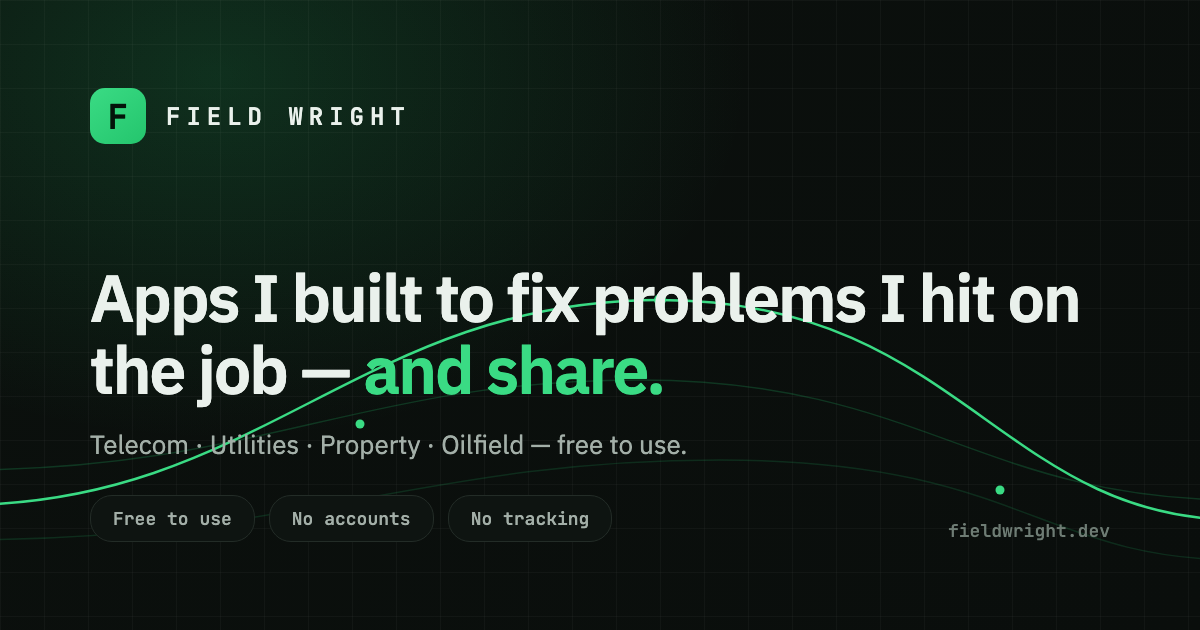
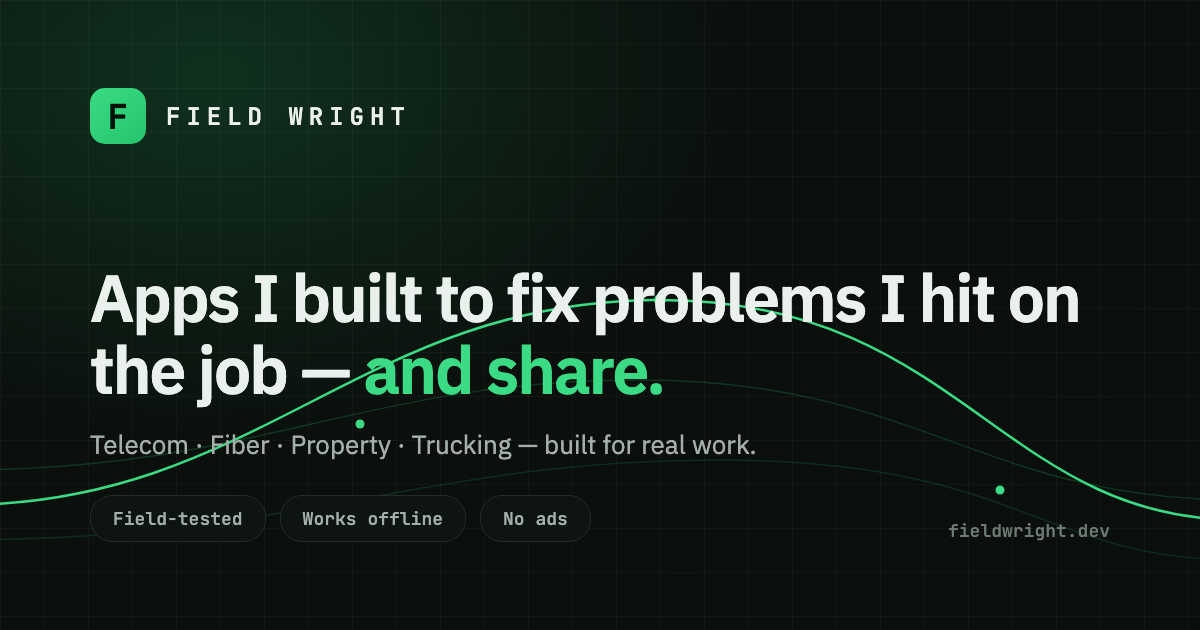
fix: correct app descriptions to match the actual repos
Reconciled the landing page against the real projects after reading each repo:

- Rig Check: it's a trucking DVIR app (FMCSA driver's vehicle inspection),
  not oilfield/drilling — recategorized Trucking and rewrote the description
- Rename to real product names: Fiber Color Code (was "Fiber Splicer Planner"),
  Linden (was "Property Management"); Material Inventory clarified as a
  self-hosted web/PWA with kiosk checkout, not a mobile app
- Add StakeTrak (RUS unit tracking & billing for fiber/utility contractors)
- Replace inaccurate blanket claims ("free / no accounts / no tracking") with
  ones true across the portfolio (field-tested, works offline, no ads, built solo)
- Fix industries wording (oilfield -> trucking) in hero, about, meta, OG image,
  JSON-LD; swap the "Oilfield" filter for "Trucking"; regenerate og-image.png

Changed region(s): [[0.1542, 0.6937, 0.6475, 0.7238], [0.2467, 0.8143, 0.4933, 0.8444], [0.0925, 0.8143, 0.2158, 0.8444]]

diff --git a/index.html b/index.html
@@ -4,14 +4,14 @@
   <meta charset="utf-8" />
   <meta name="viewport" content="width=device-width, initial-scale=1" />
   <title>Field Wright — Apps I built to solve real problems</title>
-  <meta name="description" content="Field Wright is where Hunter Easterling shares the apps he builds to solve problems he runs into — telecom, utilities, property, and oilfield. Free to use, no accounts, no tracking." />
+  <meta name="description" content="Field Wright is where Hunter Easterling shares the apps he builds to solve problems he runs into — telecom, fiber, property, and trucking. Field-tested, offline-first, no ads." />
   <link rel="canonical" href="https://fieldwright.dev/" />
   <meta name="theme-color" content="#0A0E0C" media="(prefers-color-scheme: dark)" />
   <meta name="theme-color" content="#FBFDFB" media="(prefers-color-scheme: light)" />
 
   <!-- Open Graph / Twitter -->
   <meta property="og:title" content="Field Wright — Apps I built to solve real problems" />
-  <meta property="og:description" content="I build small apps to fix problems I run into on the job, and share them in case they help you too. Free, no accounts, no tracking." />
+  <meta property="og:description" content="I build small apps to fix problems I run into on the job, and share them in case they help you too. Telecom, fiber, property, trucking — field-tested." />
   <meta property="og:type" content="website" />
   <meta property="og:url" content="https://fieldwright.dev/" />
   <meta property="og:image" content="https://fieldwright.dev/og-image.png" />
@@ -19,7 +19,7 @@
   <meta property="og:image:height" content="630" />
   <meta name="twitter:card" content="summary_large_image" />
   <meta name="twitter:title" content="Field Wright — Apps I built to solve real problems" />
-  <meta name="twitter:description" content="Small apps that fix real problems on the job — telecom, utilities, property, oilfield. Free to use." />
+  <meta name="twitter:description" content="Small apps that fix real problems on the job — telecom, fiber, property, trucking. Field-tested, offline-first." />
   <meta name="twitter:image" content="https://fieldwright.dev/og-image.png" />
 
   <link rel="preconnect" href="https://fonts.googleapis.com" />
@@ -36,7 +36,7 @@
     "email": "[email redacted]",
     "jobTitle": "Independent app developer",
     "brand": { "@type": "Brand", "name": "Field Wright" },
-    "knowsAbout": ["Telecom", "Fiber optics", "Utilities", "Property management", "Oilfield"]
+    "knowsAbout": ["Telecom", "Fiber optics", "Utilities", "Property management", "Trucking", "Construction"]
   }
   </script>
 
@@ -319,6 +319,7 @@
     .grid .card:nth-child(4) { transition-delay: .15s; }
     .grid .card:nth-child(5) { transition-delay: .20s; }
     .grid .card:nth-child(6) { transition-delay: .25s; }
+    .grid .card:nth-child(7) { transition-delay: .30s; }
 
     /* ---- Principles band ---- */
     .band { border-top: 1px solid var(--border); border-bottom: 1px solid var(--border); background: var(--surface); }
@@ -388,8 +389,8 @@
         <h1 class="reveal">Apps I built to fix problems I hit on the job — <span class="grad">and share.</span></h1>
         <p class="lede reveal">
           I'm Hunter Easterling. Field Wright is where I put the apps I've built to solve
-          real problems in my own work — across telecom, utilities, property, and oilfield.
-          They're free to use, and if one of them helps you too, that's the whole point.
+          real problems in my own work — across telecom, utilities, property, and trucking.
+          If one of them helps you too, that's the whole point.
         </p>
         <div class="cta-row reveal">
           <a class="btn btn-primary" href="#work">
@@ -399,10 +400,10 @@
           <a class="btn btn-ghost" href="#contact">Say hello</a>
         </div>
         <div class="chips reveal" aria-label="What to expect">
-          <span class="chip"><svg viewBox="0 0 24 24" fill="none" stroke="currentColor" stroke-width="2" stroke-linecap="round" stroke-linejoin="round"><path d="M20 6 9 17l-5-5"/></svg>Free to use</span>
-          <span class="chip"><svg viewBox="0 0 24 24" fill="none" stroke="currentColor" stroke-width="2" stroke-linecap="round" stroke-linejoin="round"><path d="M20 6 9 17l-5-5"/></svg>No accounts</span>
-          <span class="chip"><svg viewBox="0 0 24 24" fill="none" stroke="currentColor" stroke-width="2" stroke-linecap="round" stroke-linejoin="round"><path d="M20 6 9 17l-5-5"/></svg>No tracking</span>
           <span class="chip"><svg viewBox="0 0 24 24" fill="none" stroke="currentColor" stroke-width="2" stroke-linecap="round" stroke-linejoin="round"><path d="M20 6 9 17l-5-5"/></svg>Field-tested</span>
+          <span class="chip"><svg viewBox="0 0 24 24" fill="none" stroke="currentColor" stroke-width="2" stroke-linecap="round" stroke-linejoin="round"><path d="M20 6 9 17l-5-5"/></svg>Works offline</span>
+          <span class="chip"><svg viewBox="0 0 24 24" fill="none" stroke="currentColor" stroke-width="2" stroke-linecap="round" stroke-linejoin="round"><path d="M20 6 9 17l-5-5"/></svg>No ads</span>
+          <span class="chip"><svg viewBox="0 0 24 24" fill="none" stroke="currentColor" stroke-width="2" stroke-linecap="round" stroke-linejoin="round"><path d="M20 6 9 17l-5-5"/></svg>Built solo</span>
         </div>
       </div>
     </div>
@@ -416,7 +417,7 @@
           <button class="filter" type="button" data-filter="telecom" aria-pressed="false">Telecom</button>
           <button class="filter" type="button" data-filter="utility" aria-pressed="false">Utility</button>
           <button class="filter" type="button" data-filter="property" aria-pressed="false">Property</button>
-          <button class="filter" type="button" data-filter="oilfield" aria-pressed="false">Oilfield</button>
+          <button class="filter" type="button" data-filter="trucking" aria-pressed="false">Trucking</button>
         </div>
       </div>
       <div class="grid" id="appGrid">
@@ -426,19 +427,19 @@
             <span class="card-idx">01</span>
           </div>
           <p class="cat">Telecom · Fiber</p>
-          <h3>Fiber Splicer Planner</h3>
-          <p>Plan and track fiber splices — enclosures, trays, buffer and ribbon assignments, and splice diagrams for OSP crews.</p>
-          <div class="card-meta"><span class="tag free"><span class="dot"></span>Free</span><span class="tag">Mobile</span></div>
+          <h3>Fiber Color Code</h3>
+          <p>Plan and share fiber splices with live color-coded splice plans — teams, jobs, GPS time-tracking, and PDF/CSV export.</p>
+          <div class="card-meta"><span class="tag">iOS · Android · Web</span><span class="tag">Teams</span></div>
         </div>
         <div class="card reveal" data-cat="property">
           <div class="card-top">
             <div class="card-ico"><svg viewBox="0 0 24 24"><path d="M5 21V5a1 1 0 0 1 1-1h12a1 1 0 0 1 1 1v16"/><path d="M3 21h18"/><path d="M9 8h1M14 8h1M9 12h1M14 12h1M9 16h1M14 16h1"/></svg></div>
             <span class="card-idx">02</span>
           </div>
-          <p class="cat">Real estate</p>
-          <h3>Property Management</h3>
-          <p>Rentals, units, tenants, leases, and maintenance requests organized in one place.</p>
-          <div class="card-meta"><span class="tag free"><span class="dot"></span>Free</span><span class="tag">Mobile</span></div>
+          <p class="cat">Property</p>
+          <h3>Linden</h3>
+          <p>Solo-landlord property management — rentals, units, tenants, leases, and maintenance requests in one place.</p>
+          <div class="card-meta"><span class="tag">iOS · Android</span></div>
         </div>
         <div class="card reveal" data-cat="telecom">
           <div class="card-top">
@@ -446,9 +447,9 @@
             <span class="card-idx">03</span>
           </div>
           <p class="cat">Telecom · Inventory</p>
-          <h3>Telecom Construction Material Inventory</h3>
-          <p>Track cable, hardware, and materials across telecom construction jobs and yards.</p>
-          <div class="card-meta"><span class="tag free"><span class="dot"></span>Free</span><span class="tag">Mobile</span></div>
+          <h3>Material Inventory</h3>
+          <p>Self-hosted barcode inventory for telecom construction — kiosk checkout for field crews, per-job material accounting, and printable closeout reports.</p>
+          <div class="card-meta"><span class="tag">Web · PWA</span><span class="tag">Self-hosted</span></div>
         </div>
         <div class="card reveal" data-cat="utility">
           <div class="card-top">
@@ -457,23 +458,33 @@
           </div>
           <p class="cat">Utility · Maps</p>
           <h3>Re Route</h3>
-          <p>Opens Apple Maps links in Google Maps automatically — no copy and paste.</p>
-          <div class="card-meta"><span class="tag free"><span class="dot"></span>Free</span><span class="tag">Android</span></div>
+          <p>Opens Apple Maps links in Google Maps automatically — paste, share, or tap a link and it hands off instantly.</p>
+          <div class="card-meta"><span class="tag">Android</span></div>
         </div>
-        <div class="card reveal" data-cat="oilfield">
+        <div class="card reveal" data-cat="trucking">
           <div class="card-top">
             <div class="card-ico"><svg viewBox="0 0 24 24"><path d="M12 3 20 6v5c0 5-3.4 8.2-8 10-4.6-1.8-8-5-8-10V6z"/><path d="m8.8 12 2.2 2.2 4.2-4.4"/></svg></div>
             <span class="card-idx">05</span>
           </div>
-          <p class="cat">Oilfield</p>
+          <p class="cat">Trucking · DVIR</p>
           <h3>Rig Check</h3>
-          <p>Digital equipment inspections and safety checklists for drilling rigs.</p>
-          <div class="card-meta"><span class="tag free"><span class="dot"></span>Free</span><span class="tag">Mobile</span></div>
+          <p>Daily driver's vehicle inspection reports for truckers — fast pre/post-trip checks, local history, and compliant PDF export. No account, works offline.</p>
+          <div class="card-meta"><span class="tag">iOS · Android</span><span class="tag">FMCSA DVIR</span></div>
+        </div>
+        <div class="card reveal" data-cat="utility">
+          <div class="card-top">
+            <div class="card-ico"><svg viewBox="0 0 24 24"><path d="M9 4h6a1 1 0 0 1 1 1v1h1a2 2 0 0 1 2 2v11a2 2 0 0 1-2 2H7a2 2 0 0 1-2-2V8a2 2 0 0 1 2-2h1V5a1 1 0 0 1 1-1z"/><path d="m9 13 1.6 1.6L14 11"/></svg></div>
+            <span class="card-idx">06</span>
+          </div>
+          <p class="cat">Utility · Fiber</p>
+          <h3>StakeTrak</h3>
+          <p>Unit tracking and billing for fiber and utility contractors — import staking sheets, complete units offline in the field, approve in the office, and roll up per-work-order invoices.</p>
+          <div class="card-meta"><span class="tag">Web</span><span class="tag">Offline-first</span></div>
         </div>
         <div class="card reveal" data-cat="upcoming">
           <div class="card-top">
             <div class="card-ico"><svg viewBox="0 0 24 24"><path d="M12 5v14M5 12h14"/></svg></div>
-            <span class="card-idx">06</span>
+            <span class="card-idx">07</span>
           </div>
           <p class="cat">In progress</p>
           <h3>More on the way</h3>
@@ -501,7 +512,7 @@
         <div class="pt reveal">
           <div class="n"><svg viewBox="0 0 24 24" fill="none" stroke="currentColor" stroke-width="1.7" stroke-linecap="round" stroke-linejoin="round"><path d="M20.8 4.6a5.5 5.5 0 0 0-7.8 0L12 5.7l-1-1a5.5 5.5 0 0 0-7.8 7.8l1 1L12 21l7.8-7.6 1-1a5.5 5.5 0 0 0 0-7.8z"/></svg>Shared, not sold</div>
           <h3>Yours to use</h3>
-          <p>These are free. If something I made saves you time, take it and run.</p>
+          <p>Most are free, and none are built to trap you. If something I made saves you time, take it and run.</p>
         </div>
       </div>
     </section>
@@ -512,24 +523,24 @@
       <p class="label reveal" id="principles-title">// what you can count on</p>
       <div class="principles">
         <div class="pr reveal">
-          <div class="pr-ico"><svg viewBox="0 0 24 24"><path d="M12 2 4 5v6c0 5 3.4 8.4 8 10 4.6-1.6 8-5 8-10V5z"/></svg></div>
-          <h3>Free, no catch</h3>
-          <p>No paywalls, no trials, no upsell. If it's here, it's free to use.</p>
+          <div class="pr-ico"><svg viewBox="0 0 24 24"><path d="M5 12.5a7 7 0 0 1 13-3.5M19 11.5a7 7 0 0 1-13 3.5"/><path d="M18 5v4h-4M6 19v-4h4"/></svg></div>
+          <h3>Works offline</h3>
+          <p>Built offline-first, because a signal in the field is never a given.</p>
         </div>
         <div class="pr reveal">
-          <div class="pr-ico"><svg viewBox="0 0 24 24"><path d="M12 15a2 2 0 1 0 0-4 2 2 0 0 0 0 4z"/><rect x="4" y="9" width="16" height="12" rx="2"/><path d="M8 9V7a4 4 0 0 1 8 0v2"/></svg></div>
-          <h3>No accounts</h3>
-          <p>Open it and go. Nothing to sign up for, nothing to remember.</p>
+          <div class="pr-ico"><svg viewBox="0 0 24 24"><path d="M4.9 4.9A9 9 0 0 0 12 21a9 9 0 0 0 7.1-16.1z"/><path d="M3 3l18 18"/></svg></div>
+          <h3>No ads, no dark patterns</h3>
+          <p>No ads and no selling your data. The app is the product, not you.</p>
         </div>
         <div class="pr reveal">
-          <div class="pr-ico"><svg viewBox="0 0 24 24"><path d="M9.9 4.2A9 9 0 0 1 21 12M3 12a9 9 0 0 0 9 9"/><path d="M3 3l18 18"/><circle cx="12" cy="12" r="3"/></svg></div>
-          <h3>No tracking</h3>
-          <p>No analytics dragnet and no ads. Your data stays yours.</p>
-        </div>
-        <div class="pr reveal">
-          <div class="pr-ico"><svg viewBox="0 0 24 24"><path d="M4 20V10M12 20V4M20 20v-7"/></svg></div>
+          <div class="pr-ico"><svg viewBox="0 0 24 24"><path d="M12 2 4 5v6c0 5 3.4 8.4 8 10 4.6-1.6 8-5 8-10V5z"/><path d="m9 12 2 2 4-4"/></svg></div>
           <h3>Field-tested</h3>
           <p>Every app earns its place by holding up on a real job first.</p>
+        </div>
+        <div class="pr reveal">
+          <div class="pr-ico"><svg viewBox="0 0 24 24"><circle cx="12" cy="8" r="4"/><path d="M4 21a8 8 0 0 1 16 0"/></svg></div>
+          <h3>Built solo</h3>
+          <p>Made and supported by one person — email goes straight to me.</p>
         </div>
       </div>
     </div>
@@ -541,7 +552,7 @@
       <h2 class="reveal">Not a company — just someone who builds.</h2>
       <p class="reveal">
         <strong>Field Wright</strong> isn't a software firm. It's one person who keeps running into
-        problems at work — across telecom, utilities, property, and oilfield — and builds small apps
+        problems at work — across telecom, utilities, property, and trucking — and builds small apps
         to fix them. This is just where I collect those projects and put them somewhere anyone can find.
       </p>
       <p class="reveal">